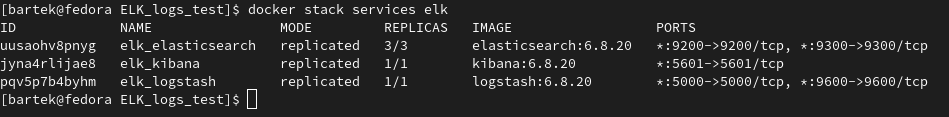
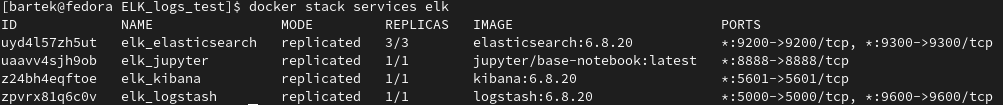
swarm problem

diff --git a/README.md b/README.md
@@ -1,11 +1,12 @@
 # Elastic Stack with Docker
-#### Testing how Elastic Stack works in Docker environment
+#### Testing how Elastic Stack and Jupyter Notebook work in Docker environment
 Using [apache-http-logs](https://github.com/ocatak/apache-http-logs.git) and [Student Performance in Exams](https://www.kaggle.com/spscientist/students-performance-in-exams) 
 
 ### Steps:
 1. Clone repository
 2. Start Elastic Stack containers using:
 - "docker-compose up -d" (use with "--build" while starting for the first time)
+#### docker stack currently has some problems starting up (jupyter is up but the rest isn't)
 - or "docker swarm init" -> "docker stack deploy -c docker.stack.yml elk" (to run as a swarm)
 ![swarm](/images/swarm.png)
 3. Create index pattern in Kibana for chosen index ("logs" or "datasets")
